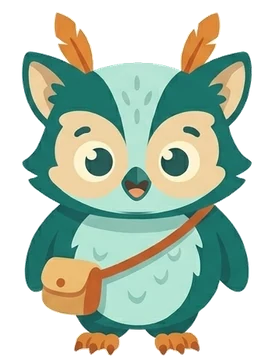
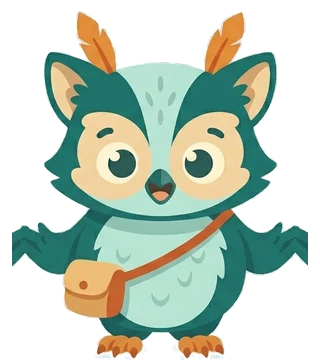
Model test results (10 models), reasoning option for OpenRouter, JSON salvage, owl frames v2
GLM-5.3 Flash via OpenRouter is the best value (99%, p95 5.6 s, ~$0.011 per
100 turns); full table in docs/MODEL_TEST_RESULTS.md. Arabic replies get more
tokens and a cut-off JSON reply is salvaged instead of shown. New owl frames:
front thinking, full-body talking, calm face.

Claude-Session: https://claude.ai/code/session_01F2PRuePjGjQJbbaoSg2nLF

Changed region(s): [[0.0291, 0.0306, 0.9891, 1.0], [0.6109, 0.8556, 0.64, 0.8861], [0.4655, 0.2139, 0.4945, 0.2444]]

diff --git a/src/lib/extra-agent.ts b/src/lib/extra-agent.ts
@@ -142,14 +142,15 @@ export async function aiExtraReply(input: {
     tag: "extra.chat",
     // A little more variety in wording (facts stay pinned by the prompt).
     temperature: 0.75,
-    maxTokens: 360,
+    // Arabic needs more tokens for the same answer; a cut-off JSON reply is unusable.
+    maxTokens: asLang(input.profile?.language) === "ar" ? 700 : 360,
     // Free-tier latency spikes past 12s now and then; give the main answer a bit more room.
     timeoutMs: 15000,
   });
   if (!result) return null;
   // Plain-text answer (format drift): keep it, split off the last question as the follow-up.
   const raw: Partial<Record<keyof ExtraAgentReply | "unsafe", unknown>> =
-    "json" in result ? result.json : splitPlainAnswer(result.text);
+    "json" in result ? result.json : fromBrokenJson(result.text) ?? splitPlainAnswer(result.text);
 
   const answer = typeof raw.answer === "string" ? cleanKidText(raw.answer) : "";
   const intent: ExtraIntent = INTENTS.has(raw.intent as ExtraIntent) ? (raw.intent as ExtraIntent) : "question";
@@ -247,6 +248,18 @@ export async function aiExtraVisual(input: {
 export function oneQuestion(text: string): string {
   const i = text.search(/[?؟]/); // Arabic uses ؟
   return i === -1 ? text : text.slice(0, i + 1).trim();
+}
+
+/**
+ * A JSON reply that was cut off (token limit) or slightly malformed must never reach
+ * the child as raw JSON (seen with an Arabic answer, Nov 10). Salvage the answer and
+ * follow-up fields; if there is no answer field, treat it as a failed call.
+ */
+export function fromBrokenJson(text: string): { answer: string; followUp: string; draw: boolean } | null {
+  const t = text.trim().replace(/^```\w*\s*/, "");
+  if (!t.startsWith("{")) return null;
+  const field = (name: string) => t.match(new RegExp(`"${name}"\\s*:\\s*"((?:[^"\\\\]|\\\\.)*)`))?.[1]?.replace(/\\"/g, '"') ?? "";
+  return { answer: field("answer"), followUp: field("followUp"), draw: false };
 }
 
 /** Turn a plain-text reply into { answer, followUp } (the last question, if any). */

diff --git a/src/lib/ai.ts b/src/lib/ai.ts
@@ -59,8 +59,9 @@ export function aiProvider(): ProviderConfig | null {
       baseUrl: trimSlash(process.env.OPENROUTER_BASE_URL || "https://openrouter.ai/api/v1"),
       model: process.env.OPENROUTER_MODEL || "google/gemini-2.5-flash-lite",
       extraBody: {
-        // Kids chat needs fast short answers, not hidden reasoning.
-        reasoning: { enabled: process.env.OPENROUTER_REASONING === "enabled" },
+        // Kids chat needs fast short answers, not hidden reasoning. Some models cannot turn it
+        // off (gpt-5-nano, glm-5.3-flash, gemini-3.8-flash): OPENROUTER_REASONING=minimal|low.
+        reasoning: openrouterReasoning(process.env.OPENROUTER_REASONING),
         // Only providers that do not train on or store prompts (children's chats).
         provider: { data_collection: "deny" },
       },
@@ -95,6 +96,12 @@ export function aiProvider(): ProviderConfig | null {
   }
 
   return null;
+}
+
+function openrouterReasoning(value?: string): Record<string, unknown> {
+  if (value === "enabled") return { enabled: true };
+  if (value === "minimal" || value === "low" || value === "medium") return { effort: value };
+  return { enabled: false };
 }
 
 export function aiEnabled(): boolean {

diff --git a/tests/unit/extra-reply.test.ts b/tests/unit/extra-reply.test.ts
@@ -76,3 +76,13 @@ describe("mid-conversation fallback (live agent unavailable)", () => {
     expect(localExtraReply("how can I hurt my sister", null, true).text).toBe(SAFE_REDIRECT);
   });
 });
+
+describe("a cut-off JSON reply never reaches the child as JSON", () => {
+  it("salvages answer and follow-up, or returns no answer", async () => {
+    const { fromBrokenJson } = await import("@/lib/extra-agent");
+    const cut = '{"intent": "question", "unsafe": false, "answer": "القمر لا يتغير فعلاً، بل نرى منه أجزاء مختلفة.", "followUp": "هل تريد';
+    expect(fromBrokenJson(cut)?.answer).toBe("القمر لا يتغير فعلاً، بل نرى منه أجزاء مختلفة.");
+    expect(fromBrokenJson('{"intent": "question", "unsa')?.answer).toBe("");
+    expect(fromBrokenJson("Plain answer. Want more?")).toBeNull();
+  });
+});

diff --git a/docs/MODEL_TEST_RESULTS.md b/docs/MODEL_TEST_RESULTS.md
@@ -1,0 +1,58 @@
+# Model test results (Nov 10, 2026)
+
+Run with `scripts/eval-models.sh` (our real app, one production server per model) and `scripts/eval-compare.mjs`. Same suite for every model: 36 cases, about 133 automatic checks (Extra, Social, Arabic, Draw, Safety, School). Brief: [`MODEL_TEST.md`](./MODEL_TEST.md). OpenRouter with `provider.data_collection = "deny"` (only hosts that do not store or train on prompts). No OpenAI key yet, so the safety check used each model's own classifier. Latency measured from our cloud machine (USA), not Dubai: good for comparing models, not absolute.
+
+**Verdict: switch from the free Z.ai tier. Best value: `z-ai/glm-5.3-flash` via OpenRouter, reasoning "minimal", for both Extra and School.** It passed 99% of checks with no fallbacks, p50 2.0 s, p95 5.6 s, at about $0.011 per 100 child turns (about $5 a month for 50 children asking 30 questions a day). It is the newer generation of the model family we use today. It is open-weight and was served by US hosts, not from China. Backups: **Claude Haiku 5.5** (97%, p95 3.8 s, steady tone, $0.035 per 100 turns) or **Gemini 2.5 Flash-Lite** (96%, fastest at p95 2.0 s, but answers run long).
+
+## Table
+
+| Model (OpenRouter id) | All checks | Extra | Social | Arabic | Draw | Safety misses | School | Fallbacks | p50 ms | p95 ms | $/1M in / out | $ per 100 turns |
+|---|---|---|---|---|---|---|---|---|---|---|---|---|
+| **z-ai/glm-5.3-flash** (minimal) | **99%** | 100% | 100% | 100% | 100% | 0 | 95% | 0 | 2001 | 5601 | 0.04 / 0.08 | **$0.011** |
+| deepseek/deepseek-v4-flash | 99% | 98% | 100% | 100% | 100% | 0 | 100% | 0 | 2404 | **12803** | 0.09 / 0.18 | $0.026 |
+| qwen/qwen3.7-flash | 98% | 100% | 100% | 100% | 94% | 0 | 95% | 0 | 2838 | 3885 | 0.03 / 0.13 | $0.010 |
+| mistralai/mistral-small-3.2-24b-instruct | 98% | 98% | 100% | 100% | 94% | 0 | 100% | 0 | 2013 | 3923 | 0.10 / 0.30 | $0.031 |
+| anthropic/claude-haiku-5.5 | 97% | 96% | 100% | 91% | 94% | 0 | 100% | 0 | 2587 | 3815 | 0.10 / 0.50 | $0.035 |
+| openai/gpt-5-nano (minimal) | 97% | 98% | 100% | 100% | 83% | 0 | 100% | 0 | 2502 | 3575 | 0.05 / 0.40 | $0.021 |
+| openai/gpt-4o-mini | 97% | 98% | 100% | 100% | 88% | 0 | 95% | 0 | 2108 | 3031 | 0.15 / 0.60 | $0.049 |
+| google/gemini-3.8-flash (minimal) | 97% | 100% | 100% | 100% | 94% | 0 | 86% | 0 | 4395 | 7961 | 0.75 / 3.75 | $0.263 |
+| meta-llama/llama-3.3-70b-instruct | 97% | 100% | 100% | 100% | 78% | 0 | 100% | 0 | 2459 | 6731 | 0.71 / 0.71 | $0.186 |
+| google/gemini-2.5-flash-lite | 96% | 93% | 100% | 100% | 100% | 0 | 95% | 0 | **1525** | **2000** | 0.10 / 0.40 | $0.033 |
+| **Baseline: Z.ai glm-4.5-flash (free)** | 84% | 79% | 100% | 100% | 44% | 0 | 100% | **8** | 12749 | 16909 | free | free |
+
+Cost per 100 turns uses our average of about 2,400 input and 220 output tokens per turn. Monthly at 50 children × 30 turns × 30 days = 45,000 turns.
+
+## Ranking
+
+- **Extra:** 1. glm-5.3-flash · 2. qwen3.7-flash · 3. mistral-small-3.2 (gemini-3.8-flash scores 100% on Extra but is 20× the price and slower).
+- **School:** 1. glm-5.3-flash · 2. Claude Haiku 5.5 · 3. mistral-small-3.2 (all calm, never grade; glm missed "Today:" once).
+- **Best value overall:** glm-5.3-flash.
+
+## Selection
+
+Picked from the live catalogue (431 models): cheap or fast tiers, text chat, JSON, a spread of providers. 10: Claude Haiku 5.5, GPT-5 nano, GPT-4o mini, Gemini 2.5 Flash-Lite, Gemini 3.8 Flash (premium, Anastasia's AI Studio test), GLM-5.3 Flash, DeepSeek V4 Flash, Qwen 3.7 Flash, Mistral Small 3.2, Llama 3.3 70B.
+
+Rejected: Llama 4 Scout (no host that refuses data collection), Gemini 3.1 Flash-Lite (third Google model, kept the cheaper one), Kimi K2.x and the Pro / Max tiers (expensive and long reasoning), all `:free` endpoints (they keep prompts). GPT-5 nano, GLM-5.3 Flash and Gemini 3.8 Flash cannot turn reasoning off, so they ran with `minimal`.
+
+## Best examples
+
+- glm-5.3-flash, young, "why does the moon change shape?": *"Ooh, I love this one, Mia! The moon does not really change shape. The Sun lights it up, and as the moon goes around Earth we see different amounts of the lit part, like peeking at a torch behind a ball from different sides. Next clear night, can you spot the moon…"*
+- Claude Haiku 5.5, bedtime at 22:47: *"Good night, Mia! It is nearly 11 o'clock, so you are right to rest now. Sleep gives your brain and body energy for tomorrow's adventures, and the sky will still be there in the morning."*
+
+## Worst failures
+
+- **Z.ai free (today's setup):** 8 of 36 replies timed out and fell back to the offline answer; p95 16.9 s. This is the "machine broke" moment children saw.
+- **Claude Haiku 5.5, Arabic moon question:** the raw JSON object showed up as the answer text. Our parser treated the reply as plain text. **Fix in our code** (extract a JSON object found inside text), not a reason to drop the model.
+- **Gemini 3.8 Flash, School explanation:** cut off after "One half means": minimal reasoning still uses part of the token budget. Would need a higher `max_tokens`.
+- **DeepSeek V4 Flash:** quality 99% but p95 12.8 s (slow hosts), above the 8 s bar.
+
+## Risks
+
+- **OpenRouter routing:** the same model id can be served by different hosts with different speed. We can pin a provider order once we pick.
+- **Data location:** with `data_collection: deny`, GLM-5.3 Flash ran on US hosts (open weights). Qwen 3.7 Flash is only served by Alibaba, so children's prompts would go to Alibaba Cloud; prefer GLM or a non-Chinese model for the pilot.
+- **Arabic:** the automatic checks only confirm Arabic script, one follow-up and safety. Tone and naturalness still need a native ear (one sample per finalist is in `eval-results/`).
+- **Safety:** 0 misses for every model, but with an OpenAI key the safety check moves to OpenAI moderation (free, faster), whichever chat model we pick.
+
+## Next step
+
+Set the deployment to `AI_PROVIDER=openrouter`, `OPENROUTER_MODEL=z-ai/glm-5.3-flash`, `OPENROUTER_REASONING=minimal`, add the OpenAI key for moderation, fix the JSON-inside-text parsing, then rerun the eval once with the OpenAI key on.

diff --git a/docs/DEV_CHANGELOG.md b/docs/DEV_CHANGELOG.md
@@ -39,6 +39,15 @@ Out of Jorge's track (owned by the project lead): Supabase persistence, parent p
 
 Newest entries first. Each entry gets its commit hash on the next update (a commit cannot contain its own hash).
 
+### Model test run (10 OpenRouter models + Z.ai baseline), owl frames v2, JSON salvage
+
+**Model test:** full results and verdict in [`docs/MODEL_TEST_RESULTS.md`](./MODEL_TEST_RESULTS.md). Every model beat the free Z.ai tier today (84%, 8 timeouts, p95 16.9 s). Best value: `z-ai/glm-5.3-flash` with reasoning "minimal" (99% of checks, p95 5.6 s, about $0.011 per 100 turns, open weights on US hosts). Backups: Claude Haiku 5.5, Gemini 2.5 Flash-Lite.
+- `OPENROUTER_REASONING=minimal|low|medium` for models that cannot turn reasoning off (GPT-5 nano, GLM-5.3 Flash, Gemini 3.8 Flash); `eval-models.sh` accepts `model@minimal`.
+
+**Fix found by the run:** an Arabic answer was cut off by the token limit and the raw JSON showed as the reply. Arabic Extra replies now get 700 tokens (English 360), and `fromBrokenJson` salvages the answer and follow-up from a broken JSON reply or falls back, so a child never sees JSON.
+
+**Owl frames v2** (Anastasia's new sheets, background removed including the fake checkerboard): front "thinking" with the wing on the chin replaces the side pose; full-body talking frames (`talk-0/1/2`, wings open); a calm face (`calm.webp`) for School's "look again" card. Same file names, so the current `Mascot` picks them up.
+
 ### School corrections before the family tests (technical note items 3, 4, 6, 8, 9a)
 
 **What**
